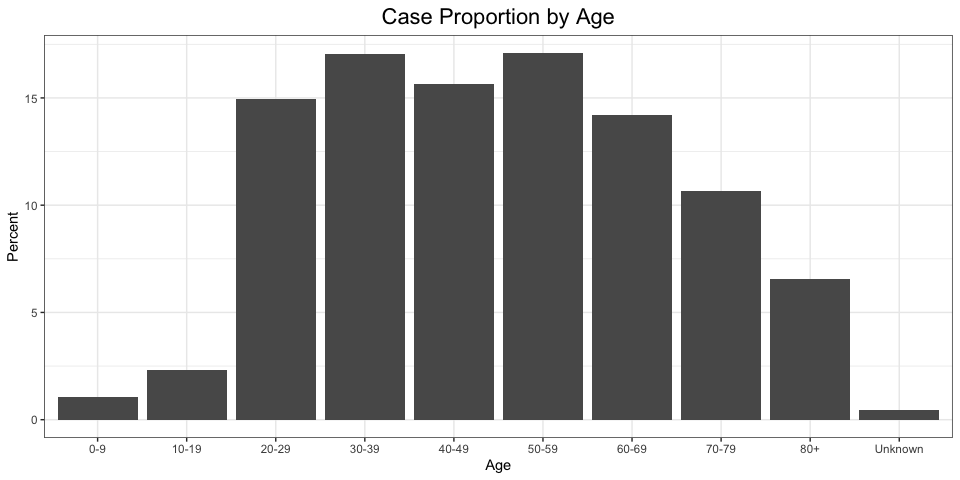
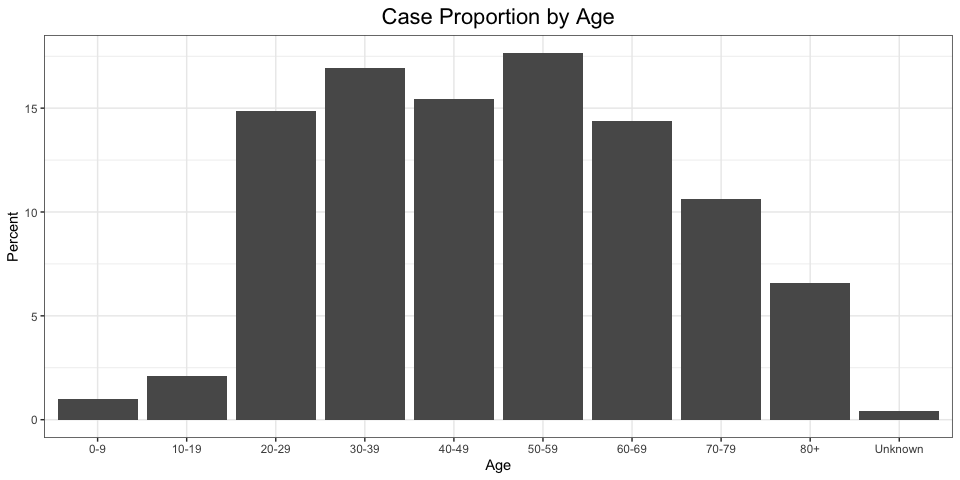
Update to March 29 2020

diff --git a/README.md b/README.md
@@ -3,14 +3,14 @@
 
 # Outbreak Summary
 
-### March 27, 2020
+### March 28, 2020
 
-![cases](https://img.shields.io/badge/Cases-2061-success.svg?style=flat-square&logo=appveyor)
-![tested](https://img.shields.io/badge/People_Tested-13276-success.svg?style=flat-square&logo=appveyor)
-![pct\_pos](https://img.shields.io/badge/Case_Rate-15.5%25-success.svg?style=flat-square&logo=appveyor)
-![deaths](https://img.shields.io/badge/Deaths-44-success.svg?style=flat-square&logo=appveyor)
-![counties](https://img.shields.io/badge/Counties-45-success.svg?style=flat-square&logo=appveyor)
-![hospitalization](https://img.shields.io/badge/Hospitalizations-274-success.svg?style=flat-square&logo=appveyor)
+![cases](https://img.shields.io/badge/Cases-2307-success.svg?style=flat-square&logo=appveyor)
+![tested](https://img.shields.io/badge/People_Tested-14470-success.svg?style=flat-square&logo=appveyor)
+![pct\_pos](https://img.shields.io/badge/Case_Rate-15.9%25-success.svg?style=flat-square&logo=appveyor)
+![deaths](https://img.shields.io/badge/Deaths-47-success.svg?style=flat-square&logo=appveyor)
+![counties](https://img.shields.io/badge/Counties-47-success.svg?style=flat-square&logo=appveyor)
+![hospitalization](https://img.shields.io/badge/Hospitalizations-326-success.svg?style=flat-square&logo=appveyor)
 
 ### [stufield.github.io/COVID-19](https://stufield.github.io/COVID-19)
 
@@ -31,9 +31,9 @@ more information and raw case data.
 
 | Sex     | Percent |
 | :------ | :------ |
-| Female  | 52.26%  |
-| Male    | 47.16%  |
-| Unknown | 0.58%   |
+| Female  | 52.06%  |
+| Male    | 47.42%  |
+| Unknown | 0.52%   |
 
 ## Cases by Age
 
